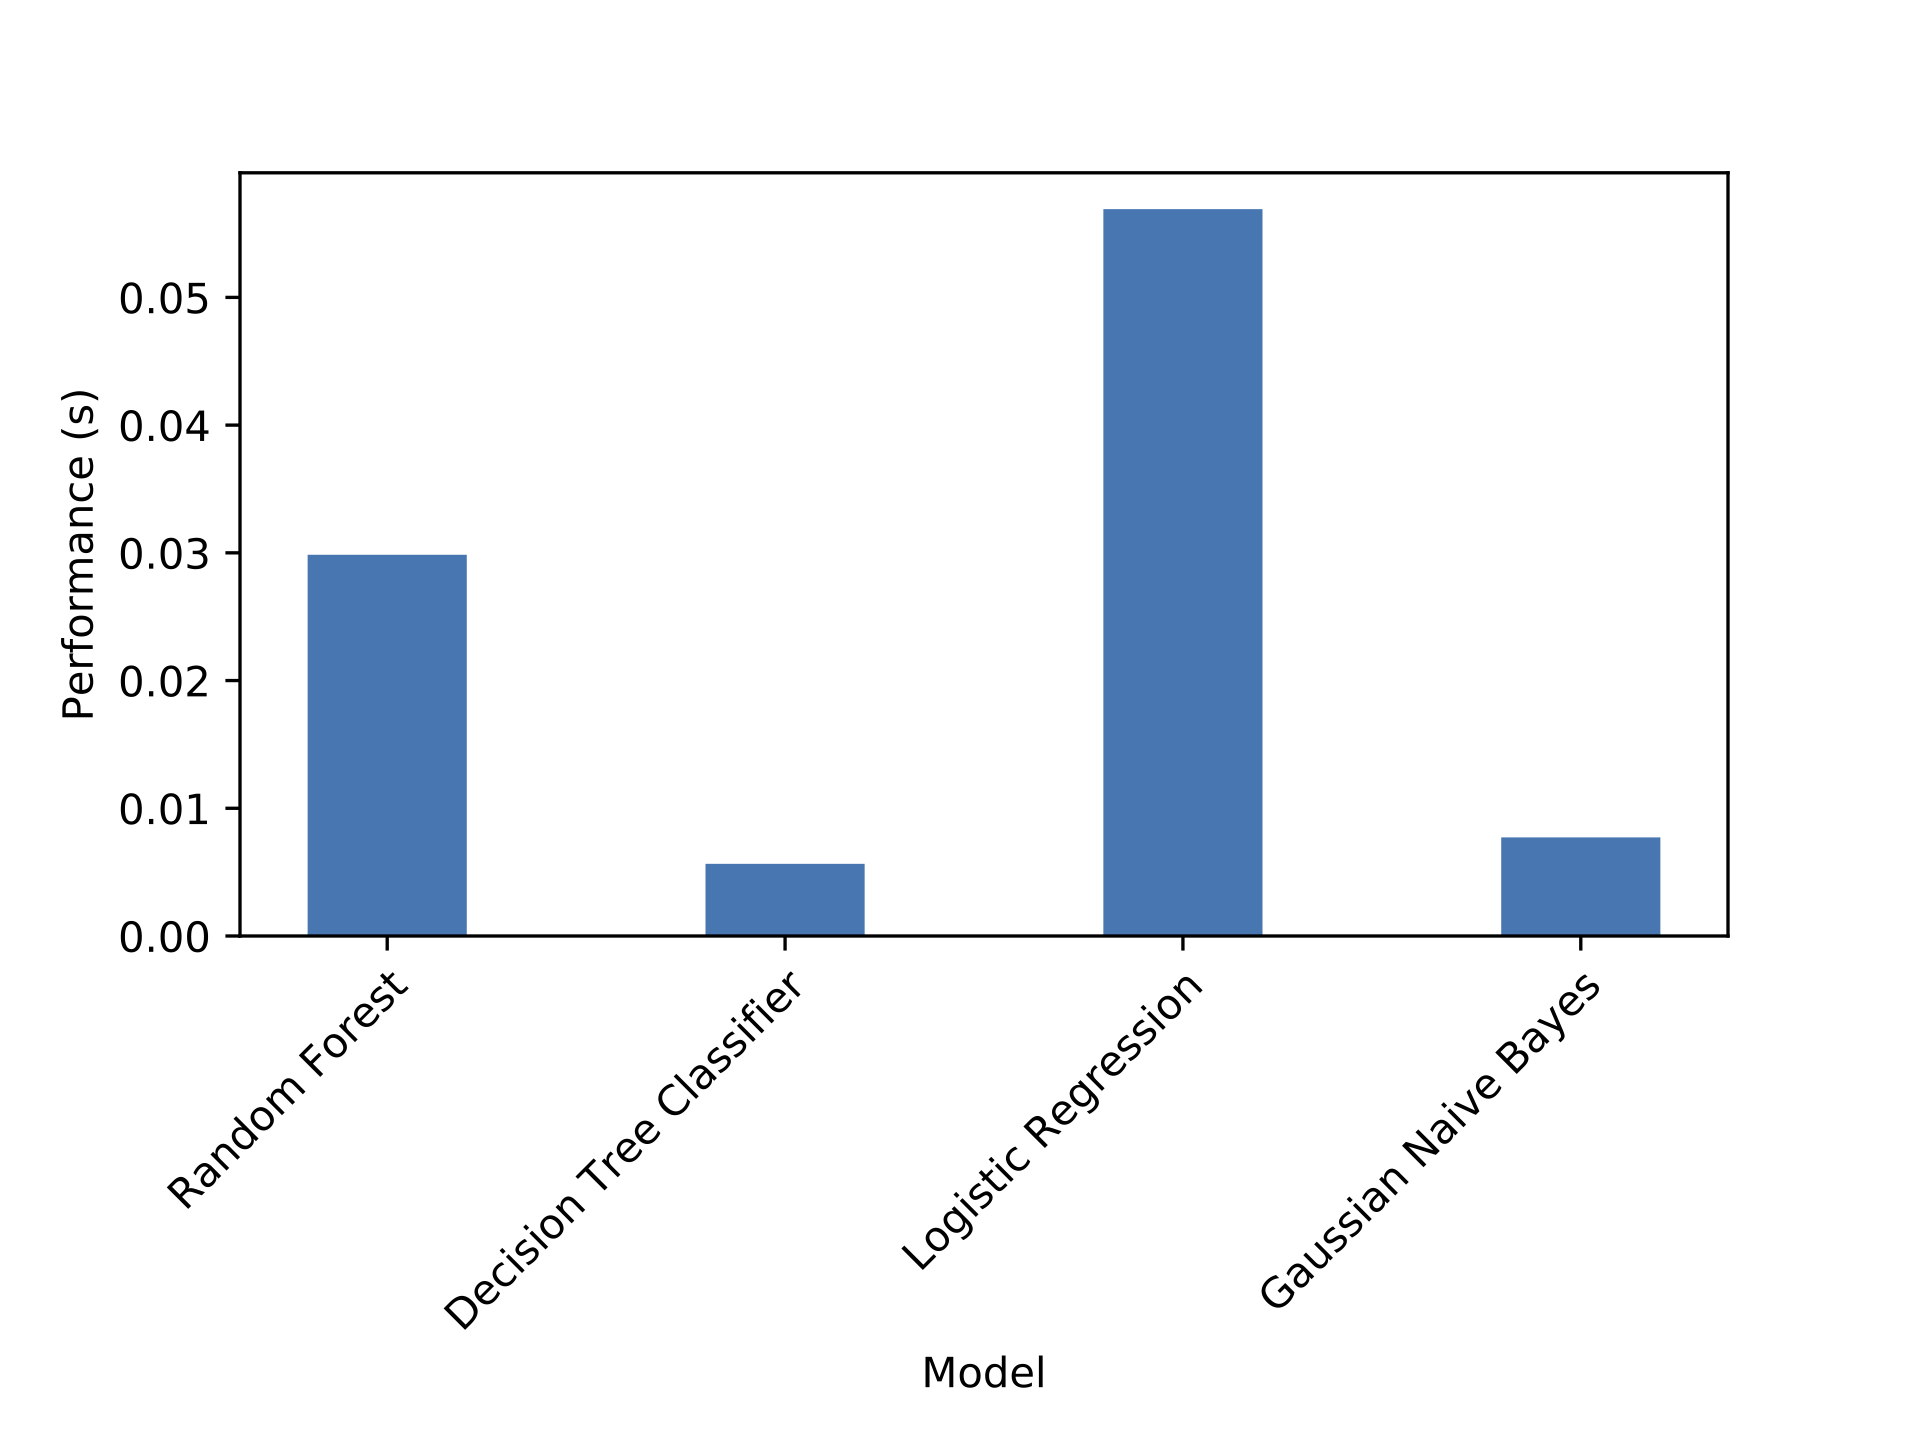
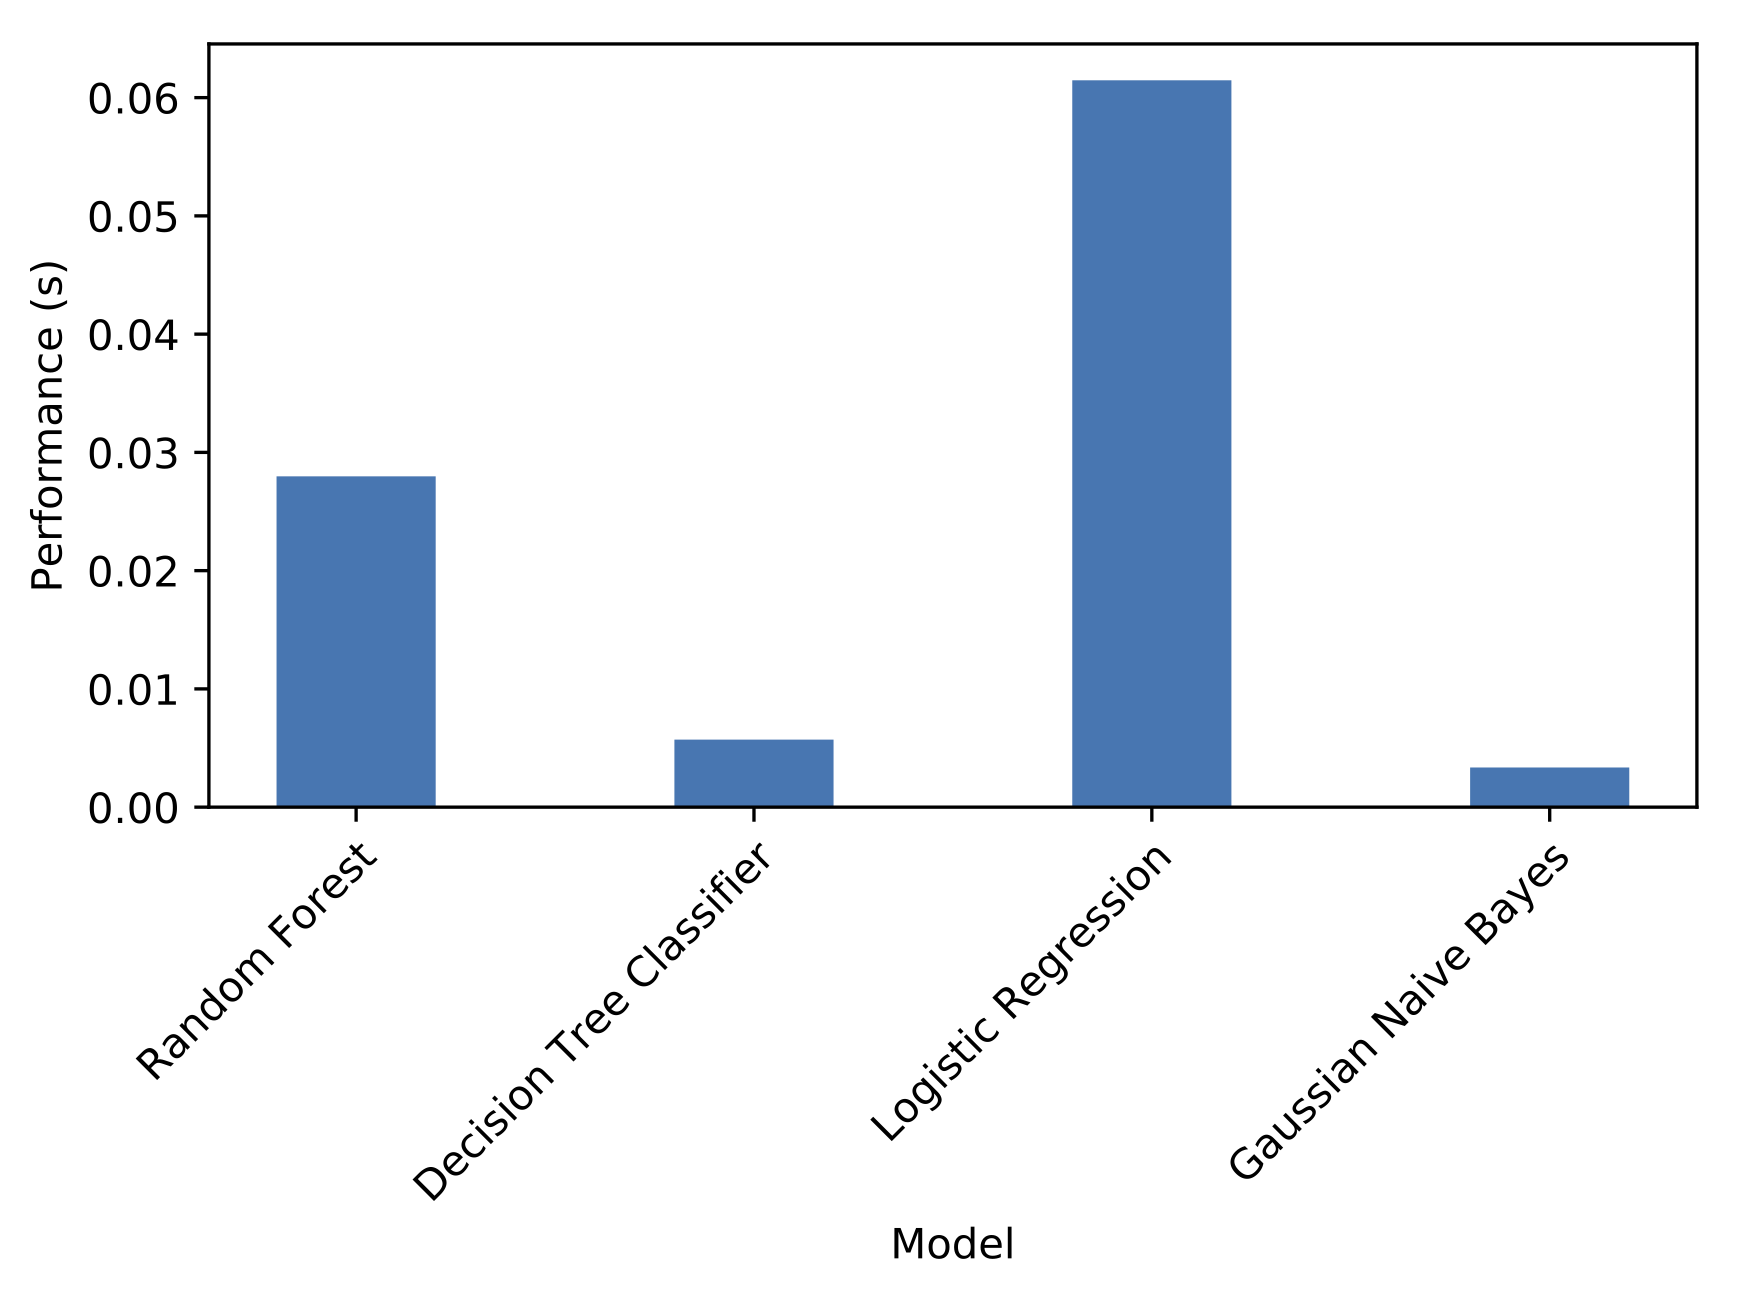
Decreased whitespace in performance_all image

diff --git a/run.py b/run.py
@@ -42,7 +42,7 @@ if __name__ == '__main__':
 
     # Visualize the performance of each model on this dataset
     performance_all(classifier.performances)
-    '''
+
     # Make prediction on new data
     predictions= classifier.predict_new(data_instance)
     print("Prediction for new mushroom data:")
@@ -57,4 +57,3 @@ if __name__ == '__main__':
 
     # Visualize relationship between classification quality and training percentage
     train_percent_accuracy(classifier)
-    '''

diff --git a/toadstool/learn/plot.py b/toadstool/learn/plot.py
@@ -67,5 +67,4 @@ def performance_all(performances):
     plt.xticks(x_pos, list(performances.keys()), rotation=45, rotation_mode='anchor', ha='right')
     plt.xlabel("Model")
     plt.ylabel("Performance (s)")
-    plt.savefig('performance_all.pdf', bbox='tight')
     plt.show()
